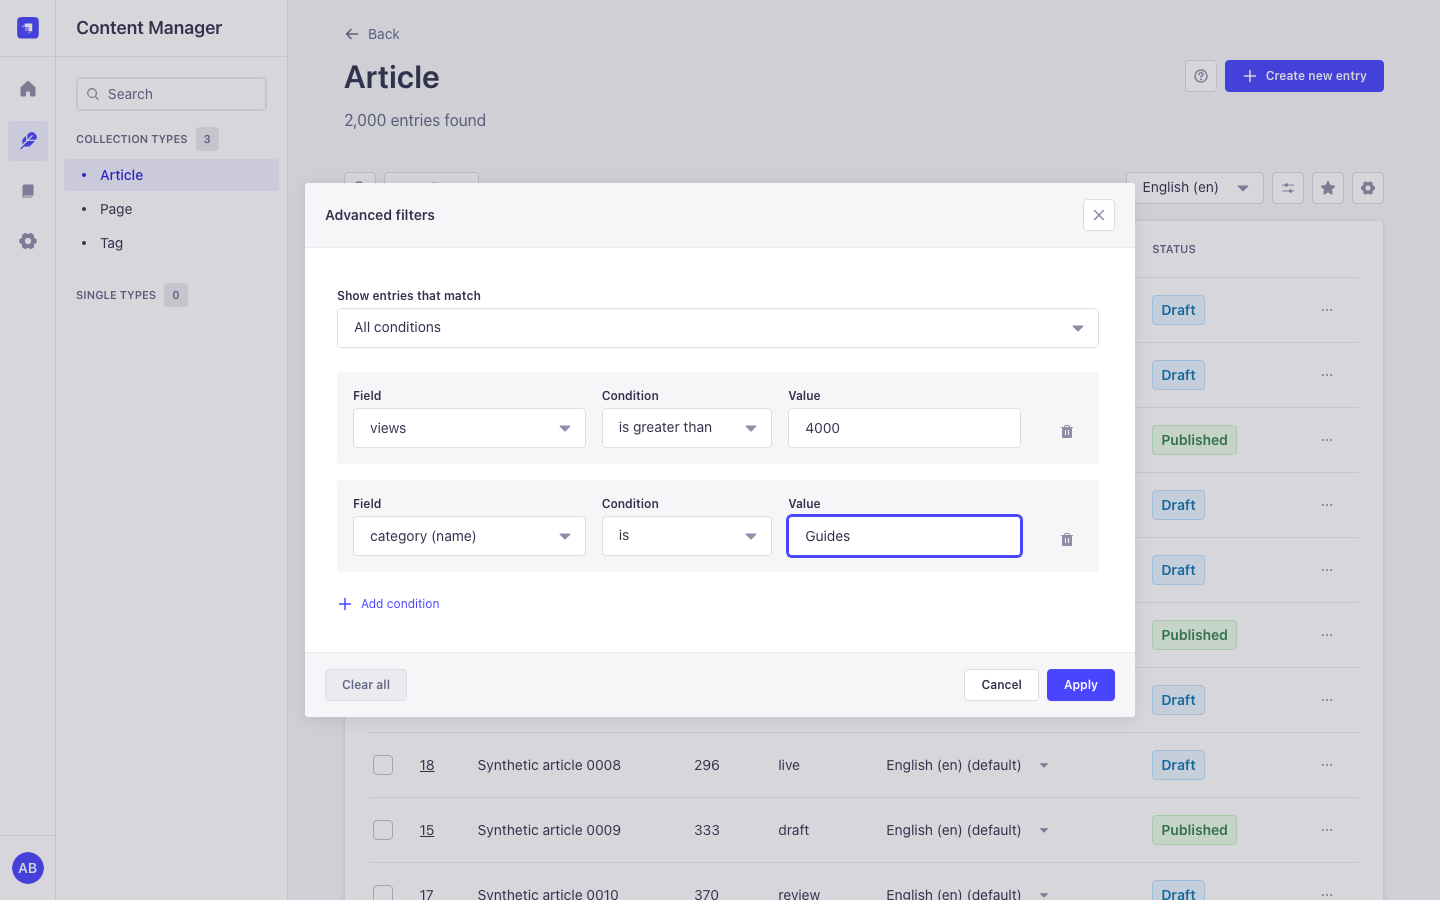
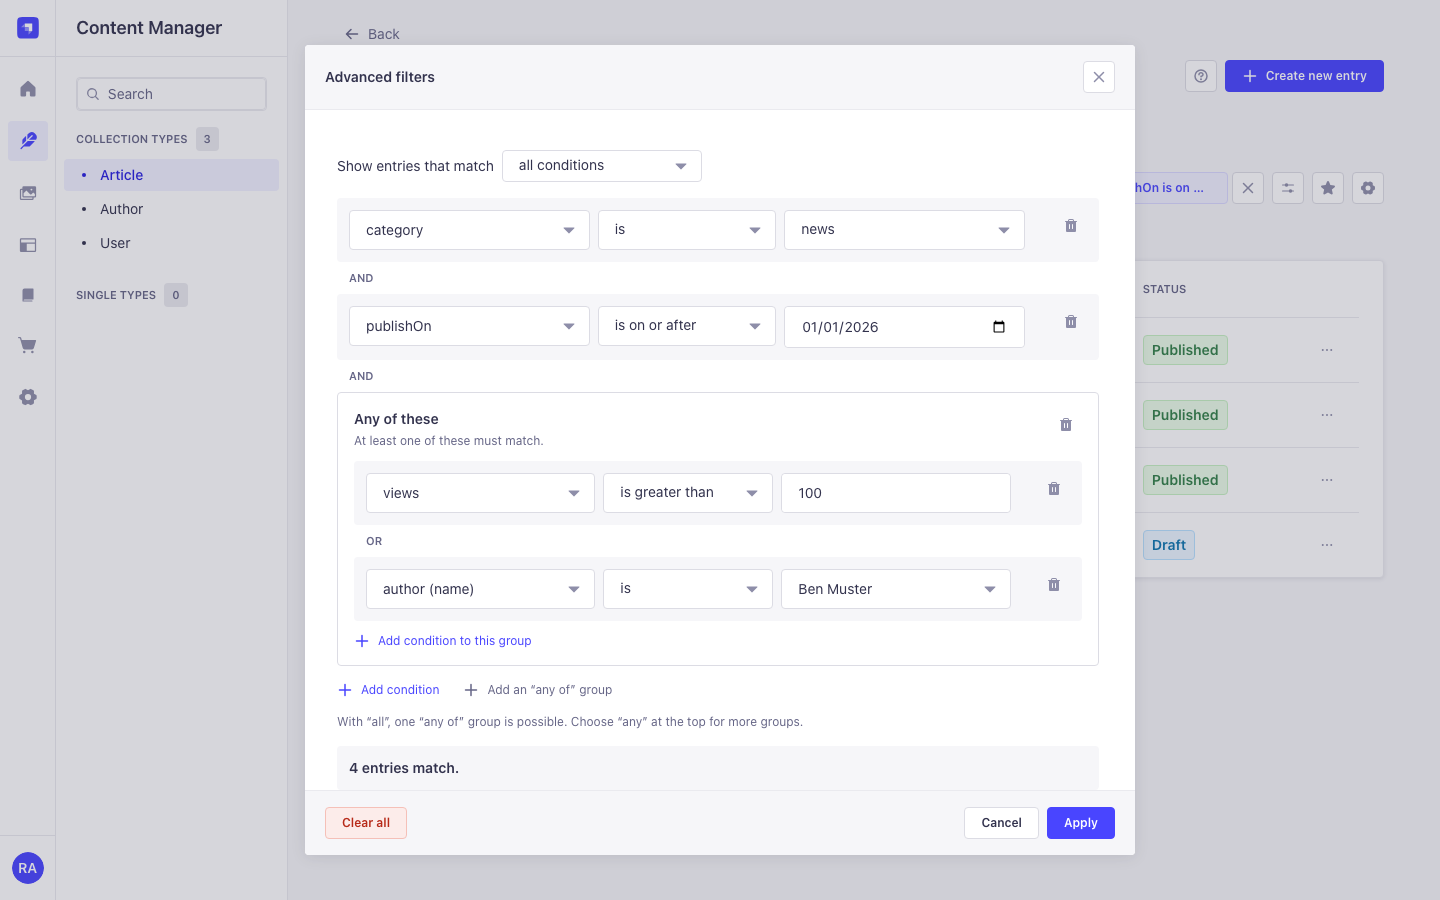
docs: document the AND / OR filter builder
README section "Building filters (AND / OR)" with the limits the Content Manager
sets (qs depth 5, one group level, status only in the root $and, native tag
removal drops a group), new examples and FAQ, CHANGELOG [Unreleased], and the
Pages text and advanced-filters screenshot (synthetic data, Strapi 5.63 host).
site.css is unchanged.

diff --git a/docs/site/index.html b/docs/site/index.html
@@ -145,10 +145,10 @@
               },
               {
                 "@type": "Question",
-                "name": "Why do \"Any condition\" filters not show as filter tags?",
+                "name": "Why do \"any condition\" filters not show as filter tags?",
                 "acceptedAnswer": {
                   "@type": "Answer",
-                  "text": "Strapi shows only $and filters as tags. The list is still filtered correctly; open Advanced filters to change or clear them."
+                  "text": "Strapi shows only $and filters as tags. The list is still filtered correctly, and a chip in the toolbar shows the whole filter as a sentence; select it to change the filter."
                 }
               },
               {
@@ -300,8 +300,8 @@
                 </li>
                 <li>Favourite lists belong on the Strapi homepage, pinned per user.</li>
                 <li>
-                  You need "any condition", "is one of", "is between" or relation and component
-                  fields in a filter.
+                  You need AND / OR with a group, "is one of", "is between" or relation and
+                  component fields in a filter.
                 </li>
               </ul>
             </div>
@@ -346,9 +346,9 @@
             <article class="card">
               <h3>Advanced filters</h3>
               <p>
-                Match all or any condition, use "is one of", "is none of" and "is between", and
-                filter on relation and component fields. "All conditions" filters show as native
-                filter tags.
+                Build AND / OR filters as plain sentences, with one optional group such as "news and
+                any of (popular, by Ben)". Inputs follow the field type, a live count shows the
+                matching entries before you apply, and a chip shows the active filter.
               </p>
             </article>
             <article class="card">
@@ -446,12 +446,14 @@ npm run develop</code></pre>
             <figure class="shot">
               <img
                 src="./img/advanced-filters.png"
-                alt="Advanced filters dialog with two conditions"
+                alt="Advanced filters with two conditions and an any-of group, and the live count"
                 width="1440"
                 height="900"
                 loading="lazy"
               />
-              <figcaption>Advanced filters with any-condition logic and native wording.</figcaption>
+              <figcaption>
+                Advanced filters: all conditions plus one any-of group, with a live count.
+              </figcaption>
             </figure>
             <figure class="shot">
               <img
@@ -588,8 +590,14 @@ npm run develop</code></pre>
           </p>
           <h3>A personal working set</h3>
           <p>
-            In Advanced filters choose Any condition, add "stage is one of idea, review" and "author
+            In Advanced filters choose any condition, add "stage is one of idea, review" and "author
             is anna.beispiel", apply, save it as a private bookmark and pin it.
+          </p>
+          <h3>News that is popular or by one author</h3>
+          <p>
+            Keep all conditions, add "Category is news", then add an "any of" group with "Views is
+            greater than 100" and "Author (name) is Ben Muster". The count shows the result before
+            you apply.
           </p>
           <h3>Read bookmarks from a script</h3>
           <div class="code-card">
@@ -783,10 +791,11 @@ npm run develop</code></pre>
               </p>
             </details>
             <details>
-              <summary>Why do "Any condition" filters not show as filter tags?</summary>
+              <summary>Why do "any condition" filters not show as filter tags?</summary>
               <p>
                 Strapi shows only <code>$and</code> filters as tags. The list is still filtered
-                correctly; open Advanced filters to change or clear them.
+                correctly, and a chip in the toolbar shows the whole filter as a sentence; select it
+                to change the filter.
               </p>
             </details>
             <details>

diff --git a/README.md b/README.md
@@ -30,6 +30,7 @@ Issues: [github.com/Schero94/Magicmark/issues](https://github.com/Schero94/Magic
 - [Quick start (1 minute)](#quick-start-1-minute)
 - [Screenshots](#screenshots)
 - [How it works](#how-it-works)
+  - [Building filters (AND / OR)](#building-filters-and--or)
 - [Configuration](#configuration)
 - [Permissions](#permissions)
 - [Examples](#examples)
@@ -66,9 +67,11 @@ read, create, edit, share or tidy up bookmarks, and the server checks every one 
   admins. Recipients can open, pin and duplicate it; only the owner or a manager can change it.
 - **Pins per user.** Pinned bookmarks come first in the toolbar and in the "Pinned bookmarks"
   widget on the Strapi homepage. Pinning a shared bookmark changes only your own list.
-- **Advanced filters** add "all conditions" or "any condition", the operators "is one of", "is
-  none of" and "is between", and fields of relations and non-repeatable components. "All
-  conditions" filters show up as native filter tags.
+- **Advanced filters with AND / OR.** Build filters as plain sentences: "Show entries that match
+  all conditions: Category is news, and any of (Views is greater than 100, Author is Ben)". One
+  optional group adds one level of nesting. Field-aware inputs (Yes/No, lists, dates with "Today",
+  "7 days ago", relation suggestions, publication status), a live count of matching entries,
+  one-click examples, undo, and a readable summary chip of the active filter in the toolbar.
 - **Keep views current.** "Update with current view" saves the list you are looking at into an
   existing bookmark; its name and sharing stay.
 - **Magic Mark page** with search, scope (created by me, shared with me, pinned, all shared),
@@ -113,15 +116,15 @@ Super Admins have every Magic Mark permission. For other roles, turn on what the
 
 All screenshots use synthetic data on an isolated Strapi 5.61 host.
 
-| Advanced filters                                                                                                | Save view as bookmark                                                                                                     |
-| --------------------------------------------------------------------------------------------------------------- | ------------------------------------------------------------------------------------------------------------------------- |
-| ![Advanced filters dialog with two conditions](https://schero94.github.io/Magicmark/img/advanced-filters.png)   | ![Save view dialog with the captured filters and sharing options](https://schero94.github.io/Magicmark/img/save-view.png) |
-| **Magic Mark page**                                                                                             | **Dark mode**                                                                                                             |
-| ![Bookmarks page with table, search and filters](https://schero94.github.io/Magicmark/img/bookmarks.png)        | ![Bookmarks page in dark mode](https://schero94.github.io/Magicmark/img/bookmarks-dark.png)                               |
-| **Homepage widget**                                                                                             | **Delete confirmation**                                                                                                   |
-| ![Pinned bookmarks widget on the Strapi homepage](https://schero94.github.io/Magicmark/img/homepage-widget.png) | ![Delete bookmark confirmation dialog](https://schero94.github.io/Magicmark/img/delete-bookmark.png)                      |
-| **Mobile, 390 px**                                                                                              |                                                                                                                           |
-| ![Bookmarks page at 390 px width](https://schero94.github.io/Magicmark/img/mobile-bookmarks.png)                |                                                                                                                           |
+| Advanced filters                                                                                                                           | Save view as bookmark                                                                                                     |
+| ------------------------------------------------------------------------------------------------------------------------------------------ | ------------------------------------------------------------------------------------------------------------------------- |
+| ![Advanced filters with two conditions, an any-of group and the live count](https://schero94.github.io/Magicmark/img/advanced-filters.png) | ![Save view dialog with the captured filters and sharing options](https://schero94.github.io/Magicmark/img/save-view.png) |
+| **Magic Mark page**                                                                                                                        | **Dark mode**                                                                                                             |
+| ![Bookmarks page with table, search and filters](https://schero94.github.io/Magicmark/img/bookmarks.png)                                   | ![Bookmarks page in dark mode](https://schero94.github.io/Magicmark/img/bookmarks-dark.png)                               |
+| **Homepage widget**                                                                                                                        | **Delete confirmation**                                                                                                   |
+| ![Pinned bookmarks widget on the Strapi homepage](https://schero94.github.io/Magicmark/img/homepage-widget.png)                            | ![Delete bookmark confirmation dialog](https://schero94.github.io/Magicmark/img/delete-bookmark.png)                      |
+| **Mobile, 390 px**                                                                                                                         |                                                                                                                           |
+| ![Bookmarks page at 390 px width](https://schero94.github.io/Magicmark/img/mobile-bookmarks.png)                                           |                                                                                                                           |
 
 ## How it works
 
@@ -131,7 +134,7 @@ All screenshots use synthetic data on an isolated Strapi 5.61 host.
 | Owner            | The admin user who created the bookmark. The owner, or someone with **Manage shared bookmarks of others**, can edit or delete it.                                            |
 | Visibility       | **Only me**, **Specific roles and users** or **All admin users**. Recipients can open, pin and duplicate a bookmark, but not change it.                                      |
 | Pin              | Per user. Pinning a shared bookmark changes only your own toolbar list and homepage widget.                                                                                  |
-| Advanced filters | A filter editor for the list view with "all conditions" or "any condition", extra operators, and relation and component fields.                                              |
+| Advanced filters | A filter builder for the list view: "all" or "any" conditions, one optional group, extra operators, relation and component fields, and a live count.                         |
 
 Where you find it:
 
@@ -142,18 +145,67 @@ Where you find it:
 | **Magic Mark** page         | Main menu                                                                                                                                                                                                                                                                                         | Read bookmarks                                 |
 | **Pinned bookmarks** widget | Strapi homepage                                                                                                                                                                                                                                                                                   | Read bookmarks                                 |
 
-With **All conditions** the filters use the same `$and` shape as Strapi's own filters, so they
-appear as filter tags and can be removed one by one. With **Any condition** the list is filtered
-correctly, but Strapi does not show those conditions as tags; open Advanced filters to change or
-clear them.
+### Building filters (AND / OR)
+
+Open **Advanced filters** (the sliders icon next to Bookmarks). An empty filter offers one-click
+examples ("Updated in the last 7 days", "Published entries", "Title contains …") and **Add
+condition**. Each condition reads as a sentence: field, condition, value.
+
+```text
+Show entries that match [all conditions ▾]
+  [Category ▾] [is ▾]               [news ▾]          🗑
+  AND
+  [Publish on ▾] [is on or after ▾] [2026-01-01]      🗑
+  AND
+  ┌ Any of these ─────────────────────────────────────┐
+  │ [Views ▾]  [is greater than ▾] [100]           🗑 │
+  │ OR                                                │
+  │ [Author (name) ▾] [is ▾] [Ben Muster ▾]        🗑 │
+  │ + Add condition to this group                     │
+  └───────────────────────────────────────────────────┘
+  + Add condition    + Add an "any of" group
+  4 entries match.
+```
+
+- **Match all or any.** The top choice decides how the main conditions combine. A group always
+  uses the other one: with "all" you can add one "any of" group, with "any" you can add several
+  "all of" groups (for example "Category is opinion, or all of (Featured is Yes, Views is at
+  least 200)").
+- **Inputs follow the field type:** Yes/No for booleans, a list for enumerations and the
+  publication status, suggestions from the related entries for relation fields, "Today", "7 days
+  ago" and "30 days ago" for dates, and two inputs for "is between". Operators use plain words
+  ("is at least", "is on or after", "is empty").
+- **Live count.** The line under the conditions shows how many entries match before you apply,
+  using the same Content Manager request as the list.
+- **Undo.** Removing a condition or a group shows **Undo** until the next change.
+- **Active filter chip.** When the filter has parts Strapi's own filter tags cannot show ("any"
+  conditions or a group), the toolbar shows the whole filter as one sentence. Select it to edit
+  the filter, or use the cross next to it to remove every filter.
+
+With "all" the main conditions use the same `$and` shape as Strapi's own filters, so they also
+appear as native filter tags. Bookmarks save the filter exactly as it is in the URL, and bookmarks
+saved by earlier versions open unchanged; the builder reads them, including the 3.x shapes.
+
+**Limits.** The Content Manager parses the list URL with the `qs` default depth of 5 brackets, so
+`filters[$and][0][$or][0][title][$eq]` (a nested `$or` inside `$and`) does not reach it intact.
+The builder therefore writes groups with Strapi's implicit AND: "all of (A, any of (B, C))" is
+`filters[$and][…]=A&filters[$or][…]=B,C`, and "any of (A, all of (B, C))" puts B and C into one
+`$or` entry. This allows one level of groups, one "any of" group with "all", and each field and
+condition once inside an "all of" group. Status (draft, published, modified) works only as a main
+condition with "all", because the Content Manager reads it only from the main `$and` list. If
+Status is the only main condition next to a group, the builder adds the always-true condition
+"id is not empty": without it the Content Manager drops the group (Strapi 5.57 to 5.63).
+Removing a native filter tag also removes a group, because Strapi's tags rewrite the filter as
+`$and` only; the chip then shows what is left. Dates are fixed when you apply: a bookmark made
+with "7 days ago" keeps that date.
 
 A filter can have at most 100 values for "is one of" / "is none of" and at most 100 conditions
-with **Any condition**: that is the `arrayLimit` of Strapi's `strapi::query` middleware, and from
-Strapi 5.63 a longer list is answered with 400. With **All conditions** the limit is 20, because
-the Content Manager list view does not open with more `$and` conditions in the URL (Strapi 5.62
-and 5.63). Advanced filters shows these limits next to the fields, and a bookmark with a longer
-list is not opened: a notice asks you to narrow the filters and save the current view into the
-bookmark again.
+with **any**: that is the `arrayLimit` of Strapi's `strapi::query` middleware, and from Strapi
+5.63 a longer list is answered with 400. With **all** the limit is 20 main conditions, because the
+Content Manager list view does not open with more `$and` conditions in the URL (Strapi 5.62 and
+5.63); a group can have 20 conditions. Advanced filters shows these limits next to the buttons,
+and a bookmark with a longer list is not opened: a notice asks you to narrow the filters and save
+the current view into the bookmark again.
 
 ## Configuration
 
@@ -185,9 +237,13 @@ search shows email addresses only to admins who may read admin users (`admin::us
 `updatedAt` descending, save the view as "Waiting for review" and share it with the Editor role.
 Every editor finds it in the Bookmarks menu of Articles and can pin it to the homepage.
 
-**A personal working set.** In Advanced filters choose **Any condition**, add "stage is one of
+**A personal working set.** In Advanced filters choose **any condition**, add "stage is one of
 idea, review" and "author is anna.beispiel", apply, then save the view as a private bookmark and
 pin it.
+
+**News that is popular or by one author.** Keep **all conditions**, add "Category is news", then
+**Add an "any of" group** with "Views is greater than 100" and "Author (name) is Ben Muster". The
+count line shows the result before you apply; save the view as a bookmark to keep it.
 
 **Keep a shared bookmark up to date.** Change the filters in the list, open Bookmarks and use the
 refresh icon next to the bookmark. It now stores the current view; the name and the people it is
@@ -397,8 +453,13 @@ bookmark opens on page 1 with its filters, sort, page size, search and locale.
 **Are the columns of the list view saved?** No. Columns are a per-user Content Manager setting
 and stay as they are.
 
-**Why do "Any condition" filters not show as filter tags?** Strapi shows only `$and` filters as
-tags. The list is still filtered correctly; open Advanced filters to change or clear them.
+**Why do "any condition" filters not show as filter tags?** Strapi shows only `$and` filters as
+tags. The list is still filtered correctly, and the filter chip in the toolbar shows the whole
+filter as a sentence; select it to change the filter, or use its cross to clear it.
+
+**Can I nest groups deeper than one level?** No. The Content Manager reads the list URL with a
+bracket depth of 5, and a second level of groups needs more (see
+[Building filters](#building-filters-and--or)).
 
 **Does it work with a custom admin URL?** Yes. Bookmarks store the path inside the admin, not the
 full URL.

diff --git a/CHANGELOG.md b/CHANGELOG.md
@@ -1,3 +1,22 @@
+## [Unreleased]
+
+### Added
+
+* **Advanced filters build AND / OR filters with one level of groups.** The builder reads as a sentence ("Show entries that match all conditions"), one line per condition. "Add an “any of” group" (with "all") or "Add an “all of” group" (with "any") adds one level of nesting, for example "Category is news and any of (Views is greater than 100, Author is Ben)". Groups are written with Strapi's implicit AND (`filters[$and]` next to `filters[$or]`, or several fields in one `$or` entry), because the Content Manager parses the list URL with a qs depth of 5 and a nested `$or` inside `$and` does not survive it.
+* Live count of matching entries while editing (the Content Manager's own list request with `pageSize=1`), an empty state with one-click examples, undo for removed conditions and groups, and focus that follows adding, removing and undoing and returns to the opening button when the dialog closes.
+* Field-aware inputs: Yes/No for booleans, the publication status (Draft, Published, Published with or without unpublished changes; the Content Manager's `__status` filter), suggestions from the related entries for relation fields, "Today", "7 days ago" and "30 days ago" for dates. Operators use plain words per type ("is at least", "is on or after", "is empty"); the case-sensitive text variants appear only when a saved filter uses them.
+* A summary chip in the list view toolbar shows the whole filter as one sentence when it has parts the native filter tags cannot show ("any" conditions or a group). Selecting it opens the builder; its cross removes every filter. Before, a list filtered with "any" looked unfiltered apart from the entry count.
+* The bookmark page shows each bookmark's filters as a sentence instead of "2 filters", and the saved-view summary shows groups.
+
+### Changed
+
+* "Contains", "starts with" and "ends with" on text fields now default to the case-insensitive operators (`$containsi`, ...). Saved filters keep their operator.
+* Date-time fields offer before / after operators instead of "is", which matched only one exact instant.
+
+### Compatibility
+
+* No migration. Bookmarks store the URL query as before, and every earlier shape opens unchanged: native `$and` tags, the 4.x "any condition" `$or` list, 3.x root fields (`filters[title][$eq]=…`, `filters[featured]=true`), entries with two operators on one field, and `$and` next to `$or`. The builder reads all of them; the rebuilt filter selects the same entries (`tests/admin-filter-groups.test.cjs`, fixtures in `tests/fixtures/legacy-bookmark-queries.json`). Shapes it cannot show (`$not`, two levels of groups) are flagged in the dialog and stay untouched until you apply.
+
 ## [4.0.5](https://github.com/Schero94/Magicmark/compare/v4.0.4...v4.0.5) (2026-11-19)
 
 
